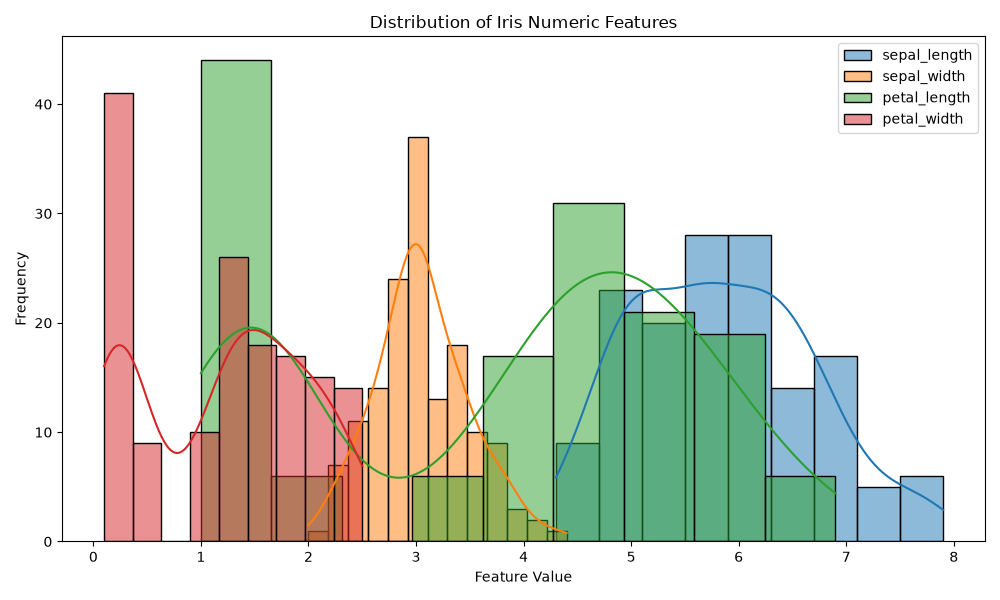
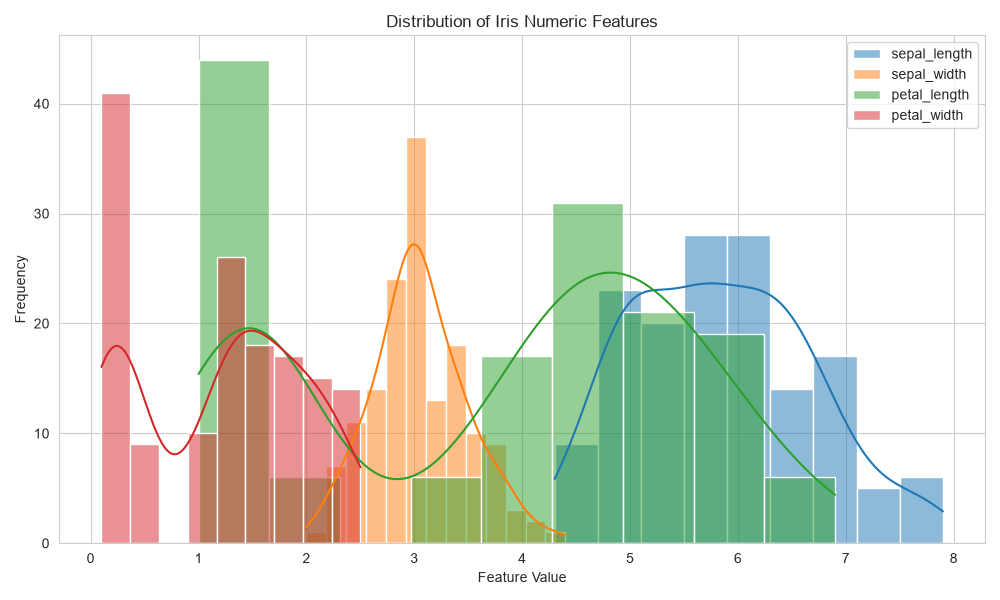
style: improve visualisation consistency

diff --git a/src/W1D5_Data_Visualisation.py b/src/W1D5_Data_Visualisation.py
@@ -15,6 +15,9 @@ import matplotlib.pyplot as plt
 import seaborn as sns
 from pathlib import Path
 
+# Set a consistent visual style
+sns.set_style("whitegrid")
+
 # Create output directory if it does not exist
 OUTPUT_DIR = Path("outputs")
 OUTPUT_DIR.mkdir(exist_ok=True)
